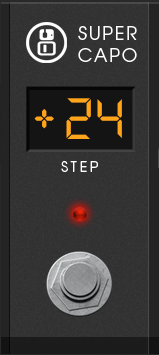
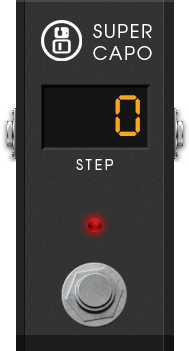
Fix supercapo ttl and css, update screenshot

diff --git a/SuperCapo/ttl/modgui/supercapo-stylesheet.css b/SuperCapo/ttl/modgui/supercapo-stylesheet.css
@@ -1,8 +1,11 @@
     .mod-supercapo {
-        background: url(/resources/supercapo-bg.png{{{ns}}}) no-repeat;
-        width: 158px;
-        height: 352px;
-
+        background:url(/resources/supercapo-bg.png{{{ns}}});
+        background-position:center center;
+        background-repeat:no-repeat;
+        background-size:158px 352px;
+        width:158px;
+        height:352px;
+        position:relative;
     }
     .mod-supercapo .mod-drag-handle {
         bottom:0;
@@ -49,9 +52,9 @@
         left: 0;
         position: absolute !important
       }
-    .mod-supercapo .mod-light.off { 
-      background-image:url(/resources/red-light-off.png{{{ns}}}); 
+    .mod-supercapo .mod-light.off {
+      background-image:url(/resources/red-light-off.png{{{ns}}});
     }
-    .mod-supercapo .mod-light.on  { 
-      background-image:url(/resources/red-light-on.png{{{ns}}}); 
+    .mod-supercapo .mod-light.on {
+      background-image:url(/resources/red-light-on.png{{{ns}}});
     }

diff --git a/Capo/ttl/modgui/capo-stylesheet.css b/Capo/ttl/modgui/capo-stylesheet.css
@@ -51,10 +51,10 @@
         right: 0;
         left: 0;
         position: absolute !important
-      }
-    .mod-capo .mod-light.off { 
+    }
+    .mod-capo .mod-light.off {
       background-image:url(/resources/red-light-off.png{{{ns}}});
     }
-    .mod-capo .mod-light.on  { 
+    .mod-capo .mod-light.on {
       background-image:url(/resources/red-light-on.png{{{ns}}});
     }
